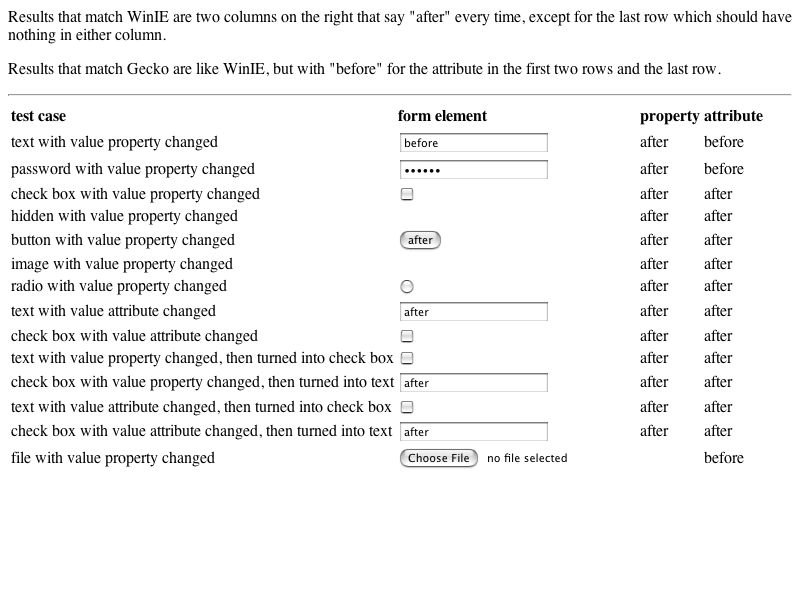
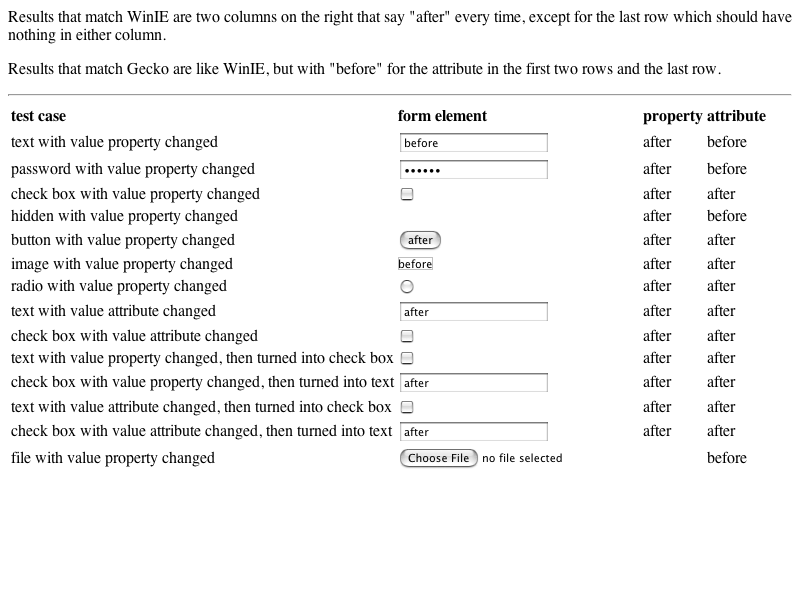
2007-01-10  Kirby White  <KWhiteRight@gmail.com>
Reviewed by Darin.

        Fixes for http://bugs.webkit.org/show_bug.cgi?id=11841

        Set image size to fit alt text when image or input-image element
        has no src attribute, so that those images show their alt text instead
        of showing nothing at all.

        * html/HTMLImageElement.cpp:
        (WebCore::HTMLImageElement::attach):
        * html/HTMLInputElement.cpp:
        (WebCore::HTMLInputElement::attach):
        * rendering/RenderImage.cpp:
        (WebCore::RenderImage::setImageSizeForAltText):
        (WebCore::RenderImage::imageChanged):
        * rendering/RenderImage.h:

2007-01-10  Kirby White  <KWhiteRight@gmail.com>

        Reviewed by Darin.

        New and adjusted test cases for
        http://bugs.webkit.org/show_bug.cgi?id=11841

        * fast/dom/HTMLImageElement/image-alt-text-expected.checksum: Added.
        * fast/dom/HTMLImageElement/image-alt-text-expected.png: Added.
        * fast/dom/HTMLImageElement/image-alt-text-expected.txt: Added.
        * fast/dom/HTMLImageElement/image-alt-text.html: Added.
        * fast/dom/HTMLImageElement/resources/blue_rect.jpg: Added.
        * fast/dom/HTMLInputElement/input-image-alt-text-expected.checksum: Added.
        * fast/dom/HTMLInputElement/input-image-alt-text-expected.png: Added.
        * fast/dom/HTMLInputElement/input-image-alt-text-expected.txt: Added.
        * fast/dom/HTMLInputElement/input-image-alt-text.html: Added.
[…]

Changed region(s): [[0.7812, 0.18, 0.9688, 0.78], [0.5312, 0.75, 0.7188, 0.78], [0.5, 0.42, 0.5625, 0.45]]

diff --git a/LayoutTests/fast/forms/focus2.html b/LayoutTests/fast/forms/focus2.html
@@ -127,13 +127,13 @@ setup();
 
 log('PARENT DOCUMENT:\n');
 document.getElementsByTagName('input')[0].focus();
-for (var i = 0; i < 12; ++i) //>
+for (var i = 0; i < 13; ++i) //>
     dispatchOptionTab(lastFocusedElement, false);
 
 lastFocusedElement.blur();
 
 log('\nIFRAME DOCUMENT:\n');
 document.getElementById('testIframe').contentDocument.getElementsByTagName('input')[0].focus();
-for (var i = 0; i < 12; ++i) //>
+for (var i = 0; i < 13; ++i) //>
     dispatchOptionTab(lastFocusedElement, false);
 </script>

diff --git a/LayoutTests/fast/dom/HTMLInputElement/input-image-alt-text.html b/LayoutTests/fast/dom/HTMLInputElement/input-image-alt-text.html
@@ -1,0 +1,14 @@
+<html>
+<head>
+</head>
+<body>
+This tests whether alt text is shown for image-type form input elements with 
+no src attribute. You should see "Success" twice, followed by a blue rectangle.
+<p>
+<form>
+<input type="image" alt="Success"><br>
+<input type="image" alt="Success" width="100" height="50" border="1"><br>
+
+<input type="image" src="resources/blue_rect.jpg" alt="FAILED!"><br>
+</body>
+</html>

diff --git a/LayoutTests/fast/dom/HTMLImageElement/image-alt-text.html b/LayoutTests/fast/dom/HTMLImageElement/image-alt-text.html
@@ -1,0 +1,13 @@
+<html>
+<head>
+</head>
+<body>
+This tests whether alt text is shown for image elements with no src attribute.
+You should see "Success" twice, followed by a blue rectangle.
+<p>
+<img alt="Success"><br>
+<img alt="Success" width="100" height="50" border="1"><br>
+
+<img src="resources/blue_rect.jpg" alt="FAILED!"><br>
+</body>
+</html>

diff --git a/WebCore/rendering/RenderImage.cpp b/WebCore/rendering/RenderImage.cpp
@@ -75,6 +75,54 @@ void RenderImage::setCachedImage(CachedImage* newImage)
     }
 }
 
+// If we'll be displaying either alt text or an image, add some padding.
+static const unsigned short paddingWidth = 4;
+static const unsigned short paddingHeight = 4;
+
+// Alt text is restricted to this maximum size, in pixels.  These are
+// signed integers because they are compared with other signed values.
+static const int maxAltTextWidth = 1024;
+static const int maxAltTextHeight = 256;
+
+// Sets the image height and width to fit the alt text.  Returns true if the
+// image size changed.
+bool RenderImage::setImageSizeForAltText(CachedImage* newImage /* = 0 */)
+{
+    int imageWidth = 0;
+    int imageHeight = 0;
+  
+    // If we'll be displaying either text or an image, add a little padding.
+    if (!m_altText.isEmpty() || newImage) {
+        imageWidth = paddingWidth;
+        imageHeight = paddingHeight;
+    }
+  
+    if (newImage) {
+        imageWidth += newImage->image()->width();
+        imageHeight += newImage->image()->height();
+    }
+  
+    // we have an alt and the user meant it (its not a text we invented)
+    if (!m_altText.isEmpty()) {
+        const Font& font = style()->font();
+        imageWidth = max(imageWidth, min(font.width(TextRun(m_altText.characters(), m_altText.length())), maxAltTextWidth));
+        imageHeight = max(imageHeight, min(font.height(), maxAltTextHeight));
+    }
+  
+    bool imageSizeChanged = false;
+  
+    if (imageWidth != intrinsicWidth()) {
+        setIntrinsicWidth(imageWidth);
+        imageSizeChanged = true;
+    }
+    if (imageHeight != intrinsicHeight()) {
+        setIntrinsicHeight(imageHeight);
+        imageSizeChanged = true;
+    }
+  
+    return imageSizeChanged;
+}
+
 void RenderImage::imageChanged(CachedImage* newImage)
 {
     if (documentBeingDestroyed())
@@ -87,27 +135,10 @@ void RenderImage::imageChanged(CachedImage* newImage)
 
     bool imageSizeChanged = false;
 
-    if (newImage->isErrorImage()) {
-        int imageWidth = newImage->image()->width() + 4;
-        int imageHeight = newImage->image()->height() + 4;
-
-        // we have an alt and the user meant it (its not a text we invented)
-        if (!m_altText.isEmpty()) {
-            const Font& font = style()->font();
-            imageWidth = max(imageWidth, min(font.width(TextRun(m_altText.characters(), m_altText.length())), 1024));
-            imageHeight = max(imageHeight, min(font.height(), 256));
-        }
-
-        if (imageWidth != intrinsicWidth()) {
-            setIntrinsicWidth(imageWidth);
-            imageSizeChanged = true;
-        }
-        if (imageHeight != intrinsicHeight()) {
-            setIntrinsicHeight(imageHeight);
-            imageSizeChanged = true;
-        }
-    }
-
+    // Set image dimensions, taking into account the size of the alt text.
+    if (newImage->isErrorImage())
+        imageSizeChanged = setImageSizeForAltText(newImage);
+    
     bool ensureLayout = false;
 
     // Image dimensions have been changed, see what needs to be done

diff --git a/WebCore/html/HTMLInputElement.cpp b/WebCore/html/HTMLInputElement.cpp
@@ -849,7 +849,12 @@ void HTMLInputElement::attach()
         m_imageLoader->updateFromElement();
         if (renderer()) {
             RenderImage* imageObj = static_cast<RenderImage*>(renderer());
-            imageObj->setCachedImage(m_imageLoader->image());    
+            imageObj->setCachedImage(m_imageLoader->image()); 
+            
+            // If we have no image at all because we have no src attribute, set
+            // image height and width for the alt text instead.
+            if (!m_imageLoader->image() && !imageObj->cachedImage())
+                imageObj->setImageSizeForAltText();
         }
     }
 

diff --git a/WebCore/html/HTMLImageElement.cpp b/WebCore/html/HTMLImageElement.cpp
@@ -166,8 +166,15 @@ void HTMLImageElement::attach()
 {
     HTMLElement::attach();
 
-    if (RenderImage* imageObj = static_cast<RenderImage*>(renderer()))
+    if (renderer()) {
+        RenderImage* imageObj = static_cast<RenderImage*>(renderer());
         imageObj->setCachedImage(m_imageLoader.image());
+        
+        // If we have no image at all because we have no src attribute, set
+        // image height and width for the alt text instead.
+        if (!m_imageLoader.image() && !imageObj->cachedImage())
+            imageObj->setImageSizeForAltText();
+    }
 }
 
 void HTMLImageElement::insertedIntoDocument()

diff --git a/WebCore/rendering/RenderImage.h b/WebCore/rendering/RenderImage.h
@@ -46,6 +46,8 @@ public:
     virtual void layout();
 
     virtual void imageChanged(CachedImage*);
+    
+    bool setImageSizeForAltText(CachedImage* newImage = 0);
 
     void updateAltText();
 
